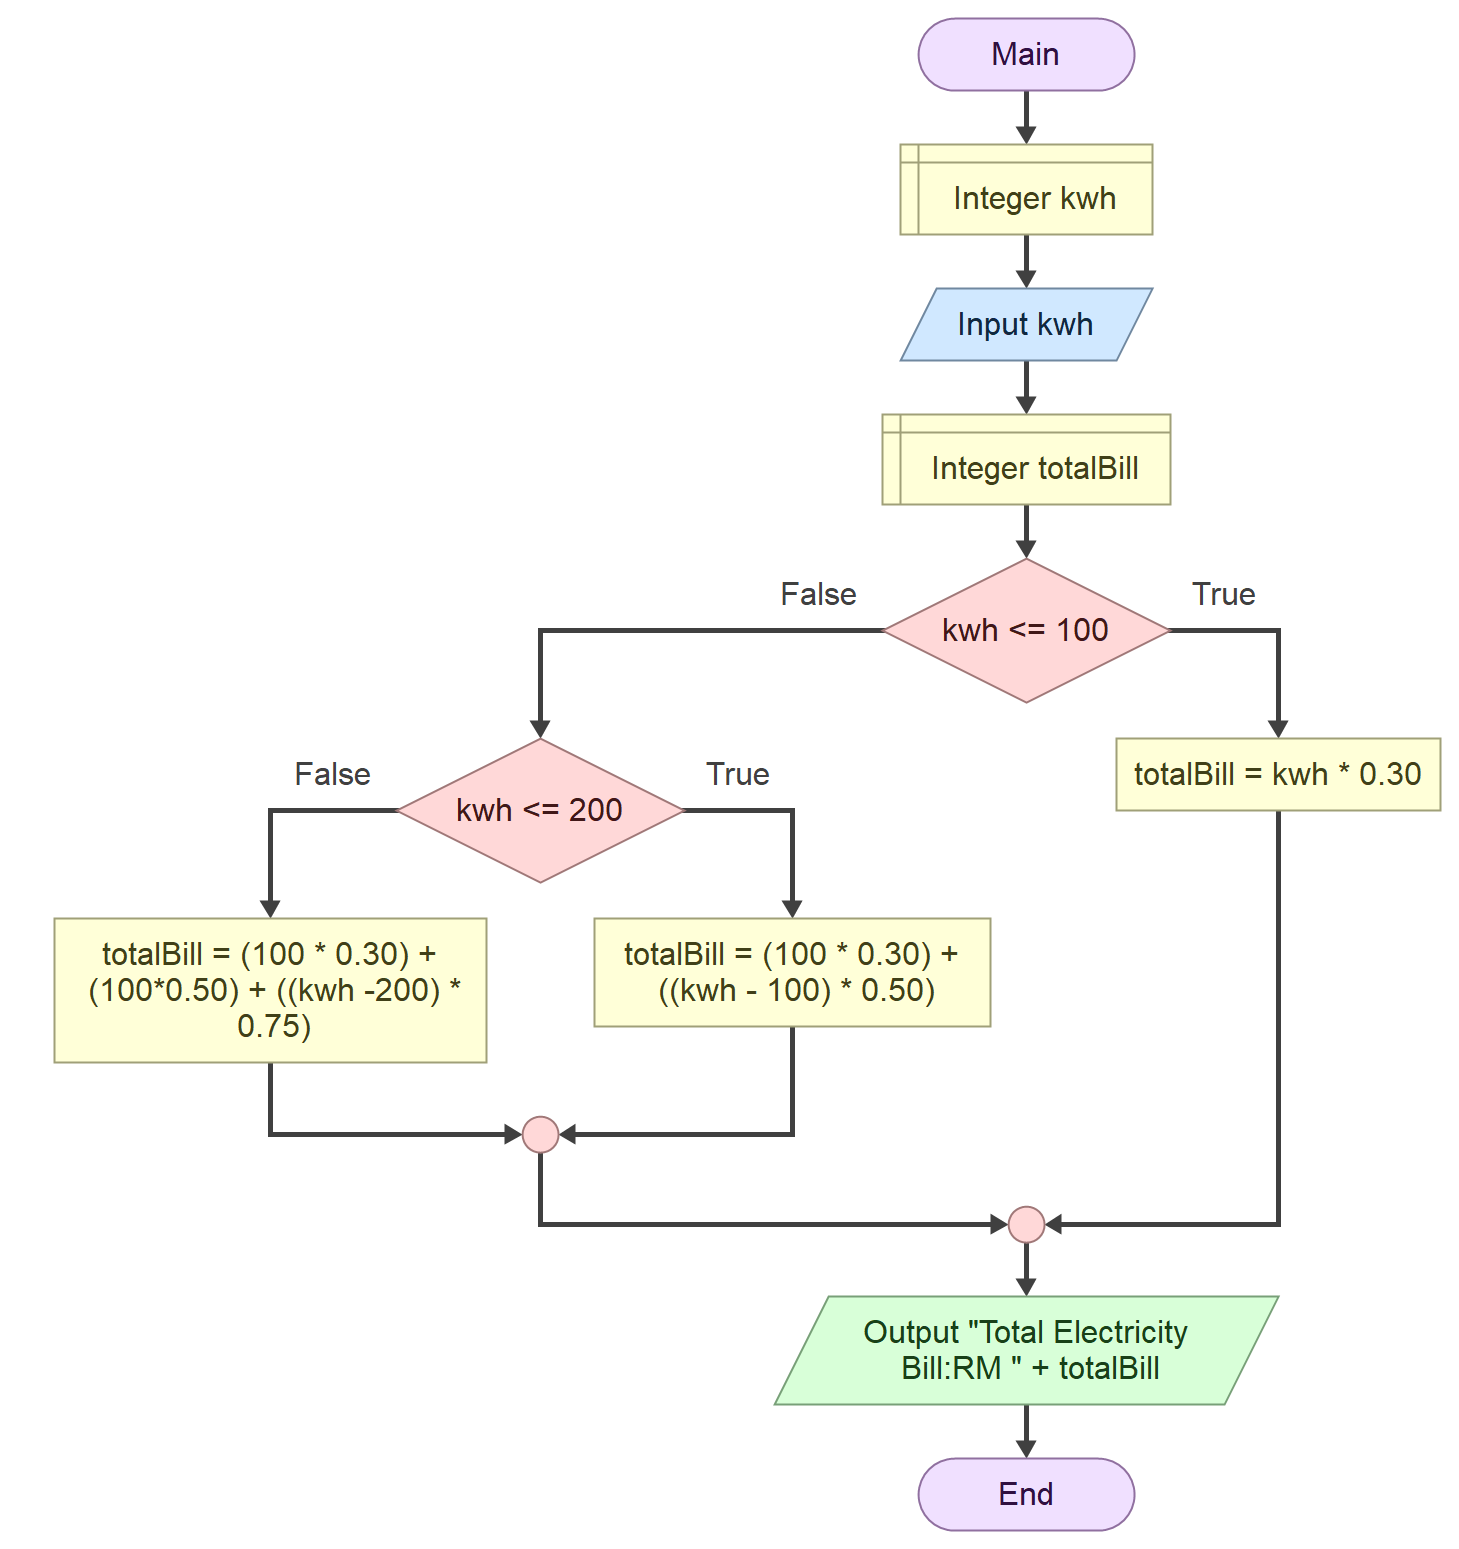
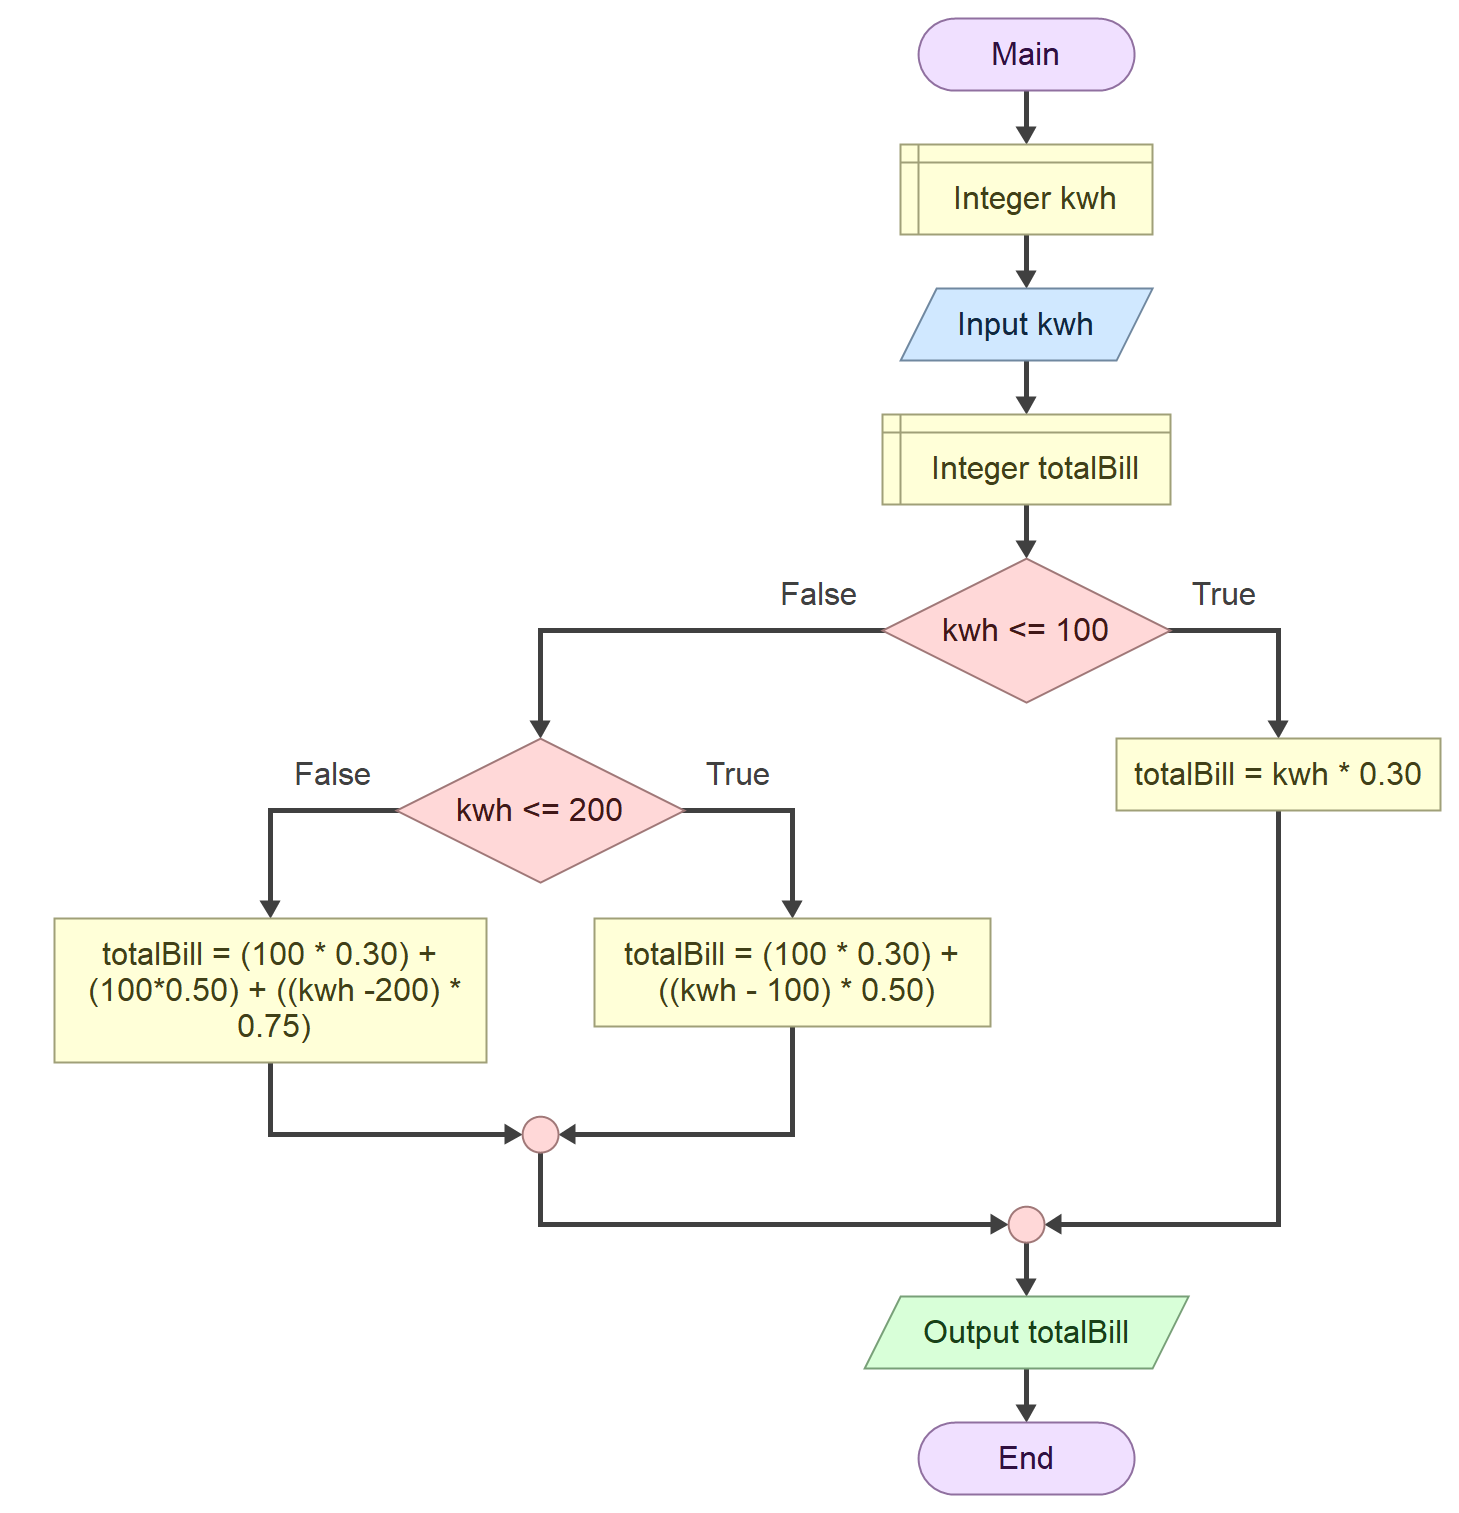
Change the print in Lab 4

diff --git a/labs/lab04/exercise1/lab-4-1.py b/labs/lab04/exercise1/lab-4-1.py
@@ -6,4 +6,4 @@ else:
         totalBill = 100 * 0.3 + kwh - 100 * 0.5
     else:
         totalBill = 100 * 0.3 + 100 * 0.5 + kwh - 200 * 0.75
-print("Total Electricity Bill:RM " + totalBill)
+print(totalBill)
